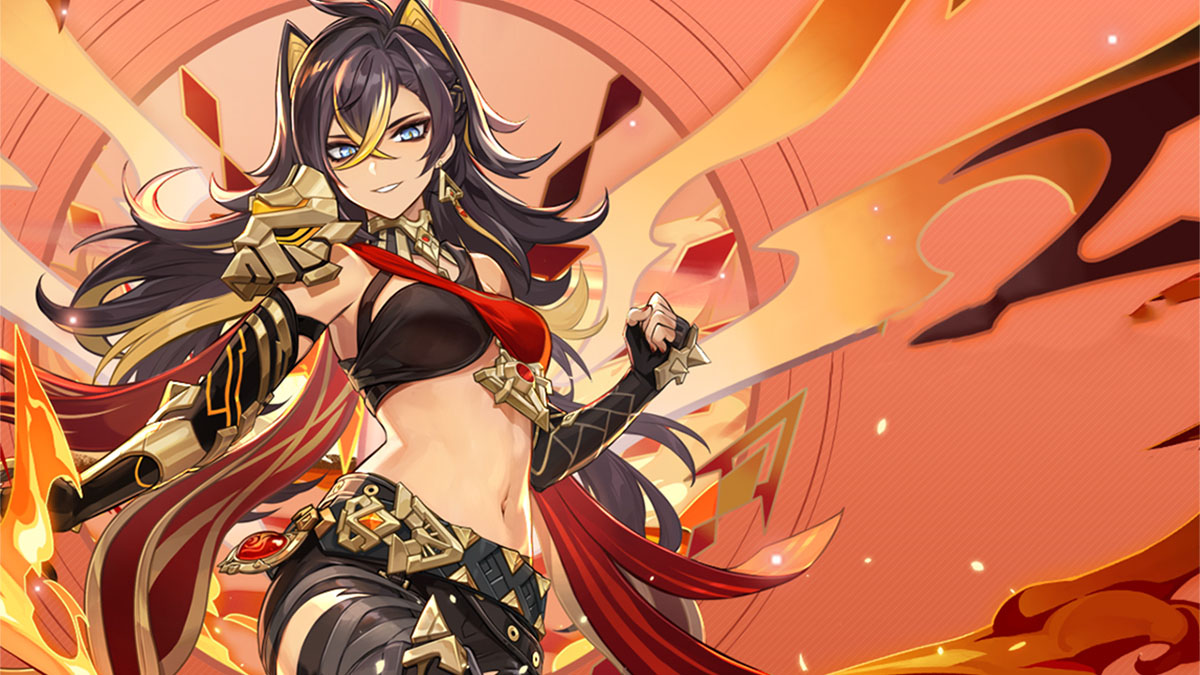
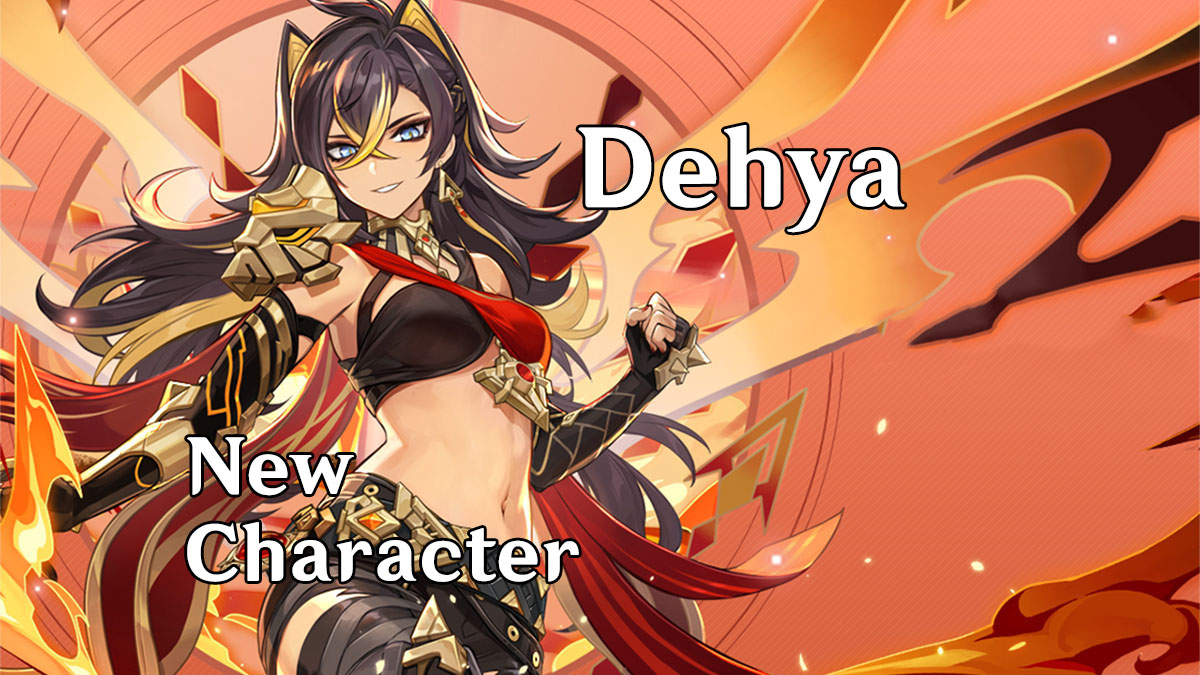
deleted:    Assets/font/oxalis-std-bold.otf 	modified:   Assets/homepage/news/news-recent-1.jpg 	new file:   Assets/homepage/news/news-recent-5.webp 	modified:   index.html 	modified:   script/news.js 	modified:   style/homepage.css

Changed region(s): [[0.1542, 0.6222, 0.4933, 0.8711], [0.4625, 0.1867, 0.7708, 0.3733]]

diff --git a/index.html b/index.html
@@ -102,8 +102,8 @@
             </div>
             <div class="news-material">
                 <h2>Latest</h2>
-                <a href=""> "Windblume's Breath" Gameplay Details</a>
-                <a href="">Collected Miscellany - "Dehya: Passion of the Burning Sands" | Genshin Impact</a>
+                <a href="">New character! Dehya: Auric Blaze</a>
+                <a href="">New weapon! Beacon of The Reed Sea (Claymore)</a>
                 <a href="">The Version 3.5 Short Video Event on TikTok</a>
                 <a href="">"Windblume's Breath" Version 3.5 Update Details</a>
                 <a href="">Character Demo - "Dehya: Fiery Lioness"</a>

diff --git a/script/news.js b/script/news.js
@@ -5,6 +5,11 @@ const news = [
         url: "https://youtu.be/URDSFmZOX4Q"
     },
     {
+        name: "news 5",
+        image: "./assets/homepage/news/news-recent-5.webp",
+        url: "https://youtu.be/BtEh1Aa0yn4"
+    },
+    {
         name: "news 2",
         image: "./assets/homepage/news/news-recent-2.jpg",
         url: "https://youtu.be/AKDz1h2871E"
@@ -13,7 +18,7 @@ const news = [
         name: "news 3",
         image: "./assets/homepage/news/news-recent-3.jpg",
         url: "https://youtu.be/HVXAKOsr2to"
-    },
+    }
 ]
 
 const nextBtn = document.getElementById("news-next-btn")

diff --git a/style/homepage.css b/style/homepage.css
@@ -203,6 +203,8 @@
     }
     
     .news-material {
+        width: 50%;
+        height: auto;
         display: flex;
         flex-direction: column;
         padding: 40px;
